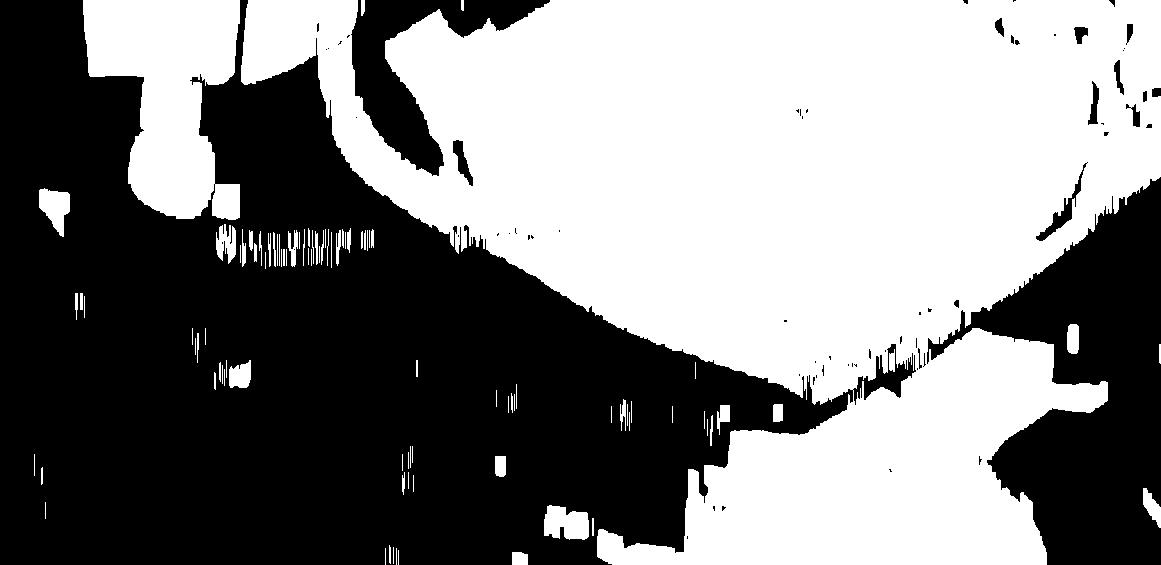
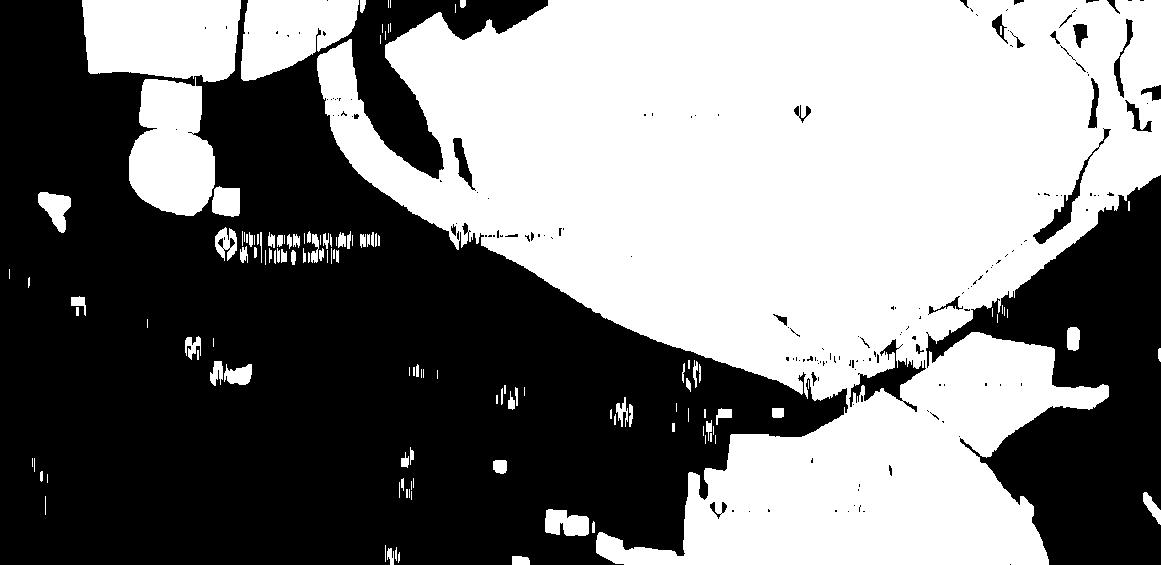
Changed the input to be a link

diff --git a/app.py b/app.py
@@ -1,14 +1,13 @@
+import requests
 from skimage.color import rgb2lab, deltaE_cie76
 from flask import Flask, request, jsonify
-from PIL import Image
 import numpy as np
 import cv2
-import io
 
 app = Flask(__name__)
 
 
-def match_image_by_color(image, blue_color, green_color, threshold=10):
+def match_image_by_color(image, blue_color, green_color, threshold=15):
     selected_image = rgb2lab(np.uint8(np.asarray([image])))
     blue_color = rgb2lab(np.uint8(np.asarray([[blue_color]])))
     green_color = rgb2lab(np.uint8(np.asarray([[green_color]])))
@@ -20,7 +19,7 @@ def match_image_by_color(image, blue_color, green_color, threshold=10):
     mask = mask.reshape(mask.shape[1:])
 
     mask = mask.astype(np.uint8)
-    kernel = np.ones((9, 1), np.uint8)
+    kernel = np.ones((5, 1), np.uint8)
     mask = cv2.dilate(mask, kernel, iterations=2)
 
     return np.around(mask.mean(), 3), mask
@@ -28,18 +27,19 @@ def match_image_by_color(image, blue_color, green_color, threshold=10):
 
 @app.route("/nature_concentration/", methods=['POST'])
 def get_nature_concentration():
-    if request.files:
+    if request.json and 'image' in request.json:
         green_rgb = [201.0, 240.0, 187.0]
         blue_rgb = [162.0, 206.0, 255.0]
 
-        image_bytes = request.files['file'].read()
-        image = np.array(Image.open(io.BytesIO(image_bytes)))
+        image_bytes = requests.get(request.json['image']).content
+        image_bgr = cv2.imdecode(np.frombuffer(image_bytes, np.uint8), -1)
+        image_rgb = cv2.cvtColor(image_bgr, cv2.COLOR_BGR2RGB)
 
-        nature_concentration_value, image_mask = match_image_by_color(image, blue_rgb, green_rgb)
+        nature_concentration_value, image_mask = match_image_by_color(image_rgb, blue_rgb, green_rgb)
 
         return jsonify(nature_concentration_value=nature_concentration_value, image_mask=image_mask.tolist())
     else:
-        return None
+        return {'nature_concentration_value': None, 'image_mask': None}
 
 
 if __name__ == "__main__":

diff --git a/test.py b/test.py
@@ -3,14 +3,29 @@ import requests
 import numpy as np
 import matplotlib.pyplot as plt
 
-files = {'file': open('test_images/green.jpeg', 'rb')}
-response = requests.post('http://0.0.0.0:5000/nature_concentration', files=files)
-print(response.ok)
 
-response = response.json()
-print(response['nature_concentration_value'])
+def test(inp):
+    # files = {'file': open(inp, 'rb')}
+    # response = requests.post('http://0.0.0.0:5000/nature_concentration', files=files)
+    response = requests.post('http://0.0.0.0:5000/nature_concentration', json=inp)
+    print(response.ok)
 
-plt.imshow(response['image_mask'])
-plt.imsave('test_images/output.jpg', np.array(response['image_mask']),  cmap='gray')
-plt.show()
+    response = response.json()
+    print(response['nature_concentration_value'])
 
+    plt.imshow(response['image_mask'])
+    plt.imsave('test_images/output_new.jpg', np.array(response['image_mask']), cmap='gray')
+    plt.show()
+
+
+# image_bytes = request.files['file'].read()
+# image = np.array(Image.open(io.BytesIO(image_bytes)))
+
+# link = 'test_images/green.jpeg'
+# image_bytes = open(request.json['image'], 'rb').read()
+
+link = 'https://maps.googleapis.com/maps/api/staticmap?center=54.7829996,' \
+       '%209.4562149&zoom=8&size=640x400&maptype=roadmap&markers=color:red%7C54.7829996,' \
+       '%209.4562149&key=AIzaSyCf6NDAXlZ5E1PdqJrAqCqhxEOQ7vYhDWI'
+inp = {'image': link}
+test(inp)
